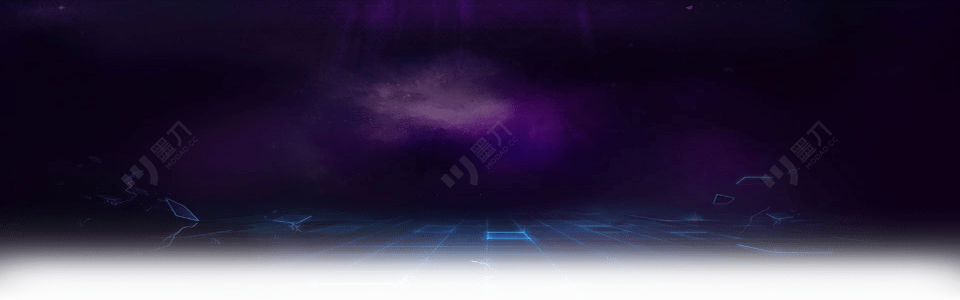
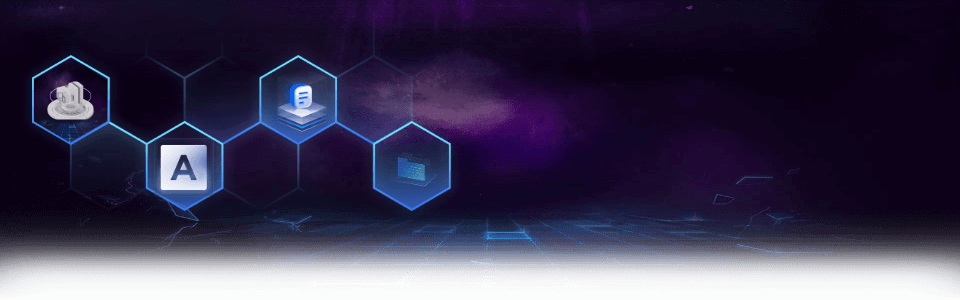
chore: collection header

Changed region(s): [[0.0312, 0.18, 0.4688, 0.72], [0.1562, 0.21, 0.2188, 0.27], [0.375, 0.18, 0.4062, 0.21]]

diff --git a/src/views/v3/project/NftDetail.vue b/src/views/v3/project/NftDetail.vue
@@ -1,22 +1,12 @@
 <template>
   <page-container class="pg-nft-detail">
-    <!-- <nft-contract-item v-if="data" :item="data" @onDetail="handleDetail" hideActions />
-    <div class="detail-divider"></div> -->
     <div class="detail-header">
-      <div class="detail-header-content">
-        <div class="detail-header-bg"></div>
-        <div class="right">
-          <span v-if="data?.name">Collection Name：{{ data?.name || '' }}</span>
-          <!-- <span>Symbol: </span> -->
-          <span>Standard: ERC1155</span>
-          <!-- TODO: 定制获取data数据错误问题 -->
-          <!-- <span>Standard: {{ data?.nftType === 1 ? 'ERC1155' : 'ERC721' }}</span> -->
-          <span>Goods: {{ nftList?.rows.length || 0 }}</span>
-        </div>
-        <div v-if="data?.nftAddress">
-          <span>Address: {{ data?.nftAddress || '' }}</span>
-        </div>
-      </div>
+      <collection-header
+        :name="data?.name"
+        :nft-type="1"
+        :address="data?.nftAddress"
+        :goods-length="nftList?.rows.length"
+      />
     </div>
     <div class="detail-divider"></div>
     <!-- <div class="list-title">NFT list</div> -->`
@@ -33,7 +23,7 @@
 <script setup lang="ts">
 import { useRoute, useRouter } from 'vue-router';
 
-// import NftContractItem from '@/components/nft-contract-item/index.vue';
+import CollectionHeader from '@/components/collection-header/index.vue';
 import SkuItem from '@/components/sku-item/index.vue';
 import { useNftDetail, useSkuList, useSpuList } from '@/hooks';
 
@@ -43,18 +33,6 @@ const router = useRouter();
 const retailId = Number(route.params.retailId);
 const nftType = Number(route.params.nftType);
 const { data } = useNftDetail(retailId, nftType);
-
-// const data: NftContractData = {
-//   nftAddress: route.query.nftAddress as Address,
-//   avatar: route.query.avatar as string,
-//   nftID: '',
-//   name: '',
-//   nftType,
-//   // 随意填写一个
-//   bizId: 1111,
-//   retailAddress: route.query.retailAddress as Address,
-//   id: retailId,
-// };
 
 const { data: nftList } = nftType === 1 ? useSkuList(retailId) : useSpuList(retailId);
 
@@ -69,52 +47,18 @@ function handleDetail(id: number) {
 <style lang="less" scoped>
 .pg-nft-detail {
   > :deep(article) {
-    background: url('./assets/bg.png') no-repeat;
+    background: url('@/assets/images/article-bg.png') no-repeat;
   }
   .detail-header {
     height: 260px;
     display: flex;
     flex-direction: column;
     box-sizing: border-box;
-    .detail-header-content {
-      // position: relative;
-      display: flex;
-      flex-direction: row;
-      justify-content: space-between;
-      align-items: flex-end;
-      .detail-header-bg {
-        // position: absolute;
-        // top: 0;
-        // left: 0;
-        // z-index: 2;
-        width: 443px;
-        height: 214px;
-        background: url('./assets/sku-bg.png') no-repeat;
-        background-size: contain;
-        background-position: center;
-      }
-      .right {
-        width: 230px;
-        display: flex;
-        flex-direction: column;
-        gap: 10px;
-      }
-    }
   }
   .detail-divider {
-    // margin: 20px 0;
-    // border-bottom: solid 1px rgba(0, 0, 0, 0.2);
     height: 42px;
     background: url('./assets/divider-bg.png') center center no-repeat;
   }
-
-  // .list-title {
-  //   font-size: 24px;
-  //   font-weight: 700;
-  //   line-height: 28px;
-  //   color: #fff;
-  //   margin: 0 0 14px 0;
-  // }
 
   .list {
     display: grid;
@@ -131,16 +75,6 @@ function handleDetail(id: number) {
     .detail-header {
       height: 150px;
       font-size: 12px;
-      .detail-header-content {
-        gap: 10px;
-        .detail-header-bg {
-          width: 270px;
-          height: 130px;
-        }
-        .right {
-          width: auto;
-        }
-      }
     }
     .list {
       grid-template-columns: 1fr 1fr;

diff --git a/src/views/v3/project/SkuDetail.vue b/src/views/v3/project/SkuDetail.vue
@@ -1,25 +1,16 @@
 <template>
   <page-container class="pg-sku-detail">
+    <collection-header name="" :nft-type="1" address="" :goods-length="false" />
     <sku-card v-if="data" :item="data" @buy="handleBuy"> </sku-card>
-    <!-- <div class="detail-divider"></div>
-    <div class="list-title">Items</div>
-    <div class="list">
-      <sku-item
-        v-for="item in nftList?.rows || []"
-        :key="item.id"
-        :item="item"
-        @click="handleDetail(item.id)"
-      />
-    </div> -->
   </page-container>
 </template>
 <script setup lang="ts">
 import { computed } from 'vue';
 import { useRoute, useRouter } from 'vue-router';
 
+import CollectionHeader from '@/components/collection-header/index.vue';
 import SkuCard from '@/components/sku-card/index.vue';
-// import SkuItem from '@/components/sku-item/index.vue';
-import { useSkuDetail, useSkuList } from '@/hooks';
+import { useSkuDetail } from '@/hooks';
 
 const route = useRoute();
 const router = useRouter();
@@ -29,39 +20,18 @@ const skuId = computed(() => Number(route.params.skuId));
 
 const { data } = useSkuDetail(skuId);
 
-// const { data: nftList } = useSkuList(retailId.value);
-
-// function handleDetail(id: number) {
-//   router.push(`/nft/sku/${retailId.value}/${id}`);
-// }
 function handleBuy(id: number) {
   router.push(`/nft/sku/${retailId.value}/${id}`);
 }
 </script>
 <style lang="less" scoped>
 .pg-sku-detail {
+  > :deep(article) {
+    background: url('@/assets/images/article-bg.png') no-repeat;
+  }
   .detail-divider {
     margin: 20px 0;
     border-bottom: solid 1px rgba(0, 0, 0, 0.2);
-  }
-
-  .list-title {
-    font-size: 24px;
-    font-weight: 700;
-    line-height: 28px;
-    color: #000;
-    margin: 0 0 14px 0;
-  }
-
-  .list {
-    display: flex;
-    flex-direction: row;
-    flex-wrap: wrap;
-    gap: 12px;
-
-    > div {
-      cursor: pointer;
-    }
   }
 }
 </style>

diff --git a/src/components/collection-header/index.vue b/src/components/collection-header/index.vue
@@ -1,0 +1,51 @@
+<template>
+  <div class="collection-header">
+    <div class="right">
+      <span v-if="name">Collection Name：{{ name }}</span>
+      <span>Standard: {{ nftType === 0 ? 'ERC721' : 'ERC1155' }}</span>
+      <span v-if="address">
+        Address:
+        <short-address :address="address" />
+      </span>
+      <span v-if="goodsLength !== false">Goods: {{ goodsLength || 0 }}</span>
+      <slot />
+    </div>
+  </div>
+</template>
+<script setup lang="ts">
+defineProps<{
+  name: String;
+  address: String;
+  nftType: number;
+  goodsLength?: number | boolean;
+}>();
+</script>
+<style>
+.collection-header {
+  background: url('@/assets/images/article-link.png') no-repeat;
+  background-size: contain;
+  display: flex;
+  flex-direction: row;
+  justify-content: flex-end;
+  align-items: flex-end;
+  height: 200px;
+  margin-bottom: 50px;
+  font-size: 14px;
+  .right {
+    width: 230px;
+    display: flex;
+    flex-direction: column;
+    gap: 10px;
+  }
+  @media (max-width: 768px) {
+    background-image: url('@/assets/images/article-link-mobile.png');
+    background-size: 70%;
+    font-size: 12px;
+    height: 200px;
+    .right {
+      gap: 0px;
+      width: auto;
+    }
+  }
+}
+</style>

diff --git a/src/views/store/SkuDetail.vue b/src/views/store/SkuDetail.vue
@@ -1,9 +1,6 @@
 <template>
   <page-container class="pg-sku-detail">
-    <!-- <div class="sku-detail-header">
-      <div class="sku-bg"></div>
-      <div></div>
-    </div> -->
+    <collection-header name="" :nft-type="1" address="" :goods-length="false" />
     <sku-card :loading="loading" v-if="data" :item="data">
       <div class="info">
         <div v-if="data?.isSold" class="sold-out">sold out</div>
@@ -32,6 +29,7 @@ import { useRoute } from 'vue-router';
 
 import { getkolRightId } from '@/api';
 import { postSkuUpdate } from '@/api/nft';
+import CollectionHeader from '@/components/collection-header/index.vue';
 import SkuCard from '@/components/sku-card/index.vue';
 import TicketQrcode from '@/components/TicketQrcode.vue';
 import type { RuleForm } from '@/components/your-info-confirm/index.vue';
@@ -136,9 +134,9 @@ async function handleBuyConfirm(item: SkuSpuData, form: RuleForm) {
 </script>
 <style lang="less" scoped>
 .pg-sku-detail {
-  // > :deep(article) {
-  //   background: url('./assets/bg.png') no-repeat;
-  // }
+  > :deep(article) {
+    background: url('@/assets/images/article-bg.png') no-repeat;
+  }
   .info {
     height: 100%;
   }

diff --git a/src/views/mine/MineSkuDetail.vue b/src/views/mine/MineSkuDetail.vue
@@ -1,5 +1,11 @@
 <template>
   <div class="pg-mine-sku-detail">
+    <collection-header
+      :name="data?.name"
+      :nft-type="1"
+      :address="data?.nftAddress"
+      :goods-length="nftList?.rows.length"
+    />
     <sku-card v-if="data" :item="data" @buy="handleBuy">
       <template v-if="scenes === 'submitted'" v-slot:actions>
         <p-button v-if="data.isHide" round @click="handleUp">Up</p-button>
@@ -24,6 +30,7 @@
 import { computed, watch } from 'vue';
 import { useRoute, useRouter } from 'vue-router';
 
+import CollectionHeader from '@/components/collection-header/index.vue';
 import SkuCard from '@/components/sku-card/index.vue';
 import SkuItem from '@/components/sku-item/index.vue';
 import { useSkuDetail, useSkuList } from '@/hooks';

diff --git a/src/views/store/ProjectDetail.vue b/src/views/store/ProjectDetail.vue
@@ -173,7 +173,7 @@ async function handleBuyConfirm(item: SkuSpuData, form: RuleForm) {
 <style lang="less" scoped>
 .pg-store-project-detail {
   > :deep(article) {
-    background: url('./assets/bg.png') no-repeat;
+    background: url('@/assets/images/article-bg.png') no-repeat;
   }
   .list {
     display: grid;

diff --git a/src/views/mine/MineContainer.vue b/src/views/mine/MineContainer.vue
@@ -100,10 +100,13 @@ const selected = computed(() => route.meta.scenes);
 
   .mine-content {
     flex: 1;
-    //width: 976px;
     width: 800px;
-    // background-color: #fff;
     padding: 20px 30px;
+  }
+  @media (max-width: 800px) {
+    .mine-content {
+      padding: 0;
+    }
   }
 }
 </style>

diff --git a/src/views/goods/GoodsDetail.vue b/src/views/goods/GoodsDetail.vue
@@ -118,7 +118,7 @@ function handleDownload() {
 <style lang="less" scoped>
 .page-container.pg-goods-detail {
   > :deep(article) {
-    background: url('./assets/bg.png') no-repeat;
+    background: url('@/assets/images/article-bg.png') no-repeat;
   }
   .goods-card {
     border-radius: 10px;
